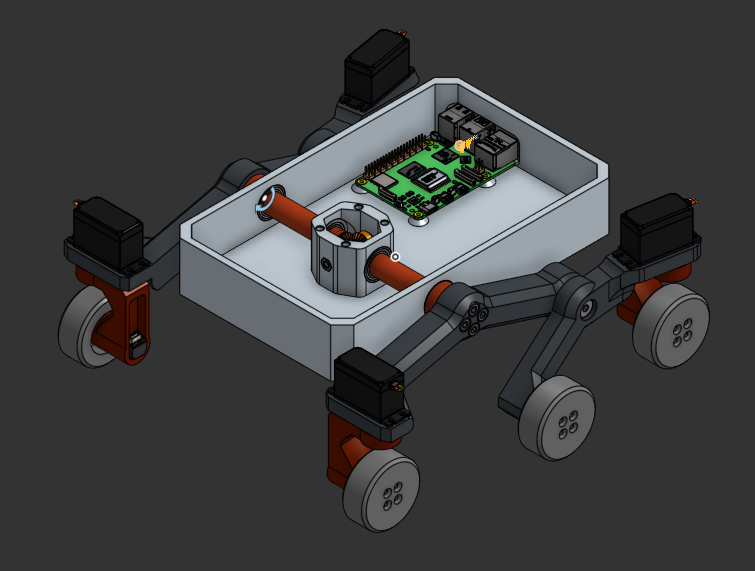
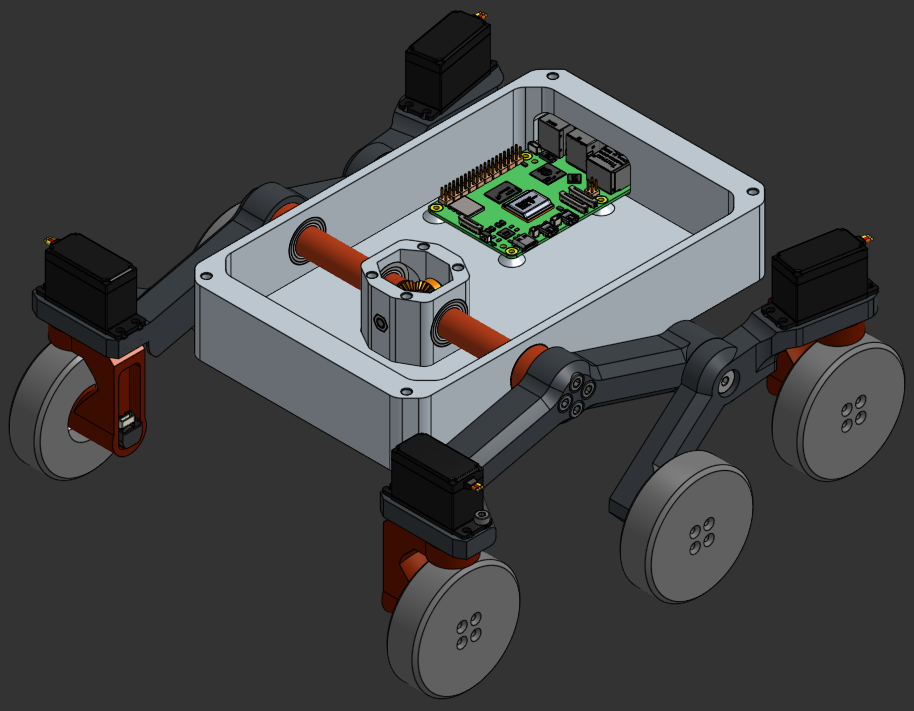
Updated images and removed plots

Changed region(s): [[0.0, 0.0, 1.0, 0.9825], [0.3046, 0.5657, 0.3351, 0.5954], [0.2742, 0.5359, 0.3046, 0.5657]]

diff --git a/content/posts/perseverance/index.md b/content/posts/perseverance/index.md
@@ -2,7 +2,7 @@
 title: "Perseverance"
 date: 2025-08-12T09:00:00+00:00
 description: EKF-based state estimation and navigation for a Mars rover–inspired 6‑wheel robot
-hero: kalman_filter_errors_comparison.png
+hero: TopDownRover.png
 author:
   image: /images/sharwin_portrait.jpg
 menu:
@@ -14,13 +14,4 @@ repo: https://github.com/Sharwin24/Perseverance
 ---
 Perseverance is an open‑source mobile robot inspired by NASA’s Mars rover. The project focuses on robust state estimation for a 6‑wheel rocker‑bogie platform using an Extended Kalman Filter (EKF) within a modular ROS 2 package for sensor fusion and, later, SLAM and navigation. It derives the non‑linear kinematic model and Jacobians, implements multiple drive‑base models (differential drive, mecanum, and rocker-bogie), and benchmarks performance using IMU and wheel‑odometry data.
 
-<div align="center"><em>Work in progress — more results and equations coming soon.</em></div>
-
-<div align="center" style="display: flex; justify-content: center; align-items: center; flex-wrap: wrap;">
-  <img src="kalman_filter_states_comparison.png" alt="Kalman Filter States Comparison" style="border-radius: 15px; width: 48%; margin: 10px;">
-  <img src="kalman_filter_errors_comparison.png" alt="Kalman Filter Errors Comparison" style="border-radius: 15px; width: 48%; margin: 10px;">
-</div>
-
-<div align="center" style="display: flex; justify-content: center; align-items: center; flex-wrap: wrap;">
-  <img src="robot_trajectory_comparison.png" alt="Robot Trajectory Comparison" style="border-radius: 15px; width: 70%; margin: 10px;">
-</div>
+<div align="center"><em>Work in progress — more images, math, and code coming soon.</em></div>
